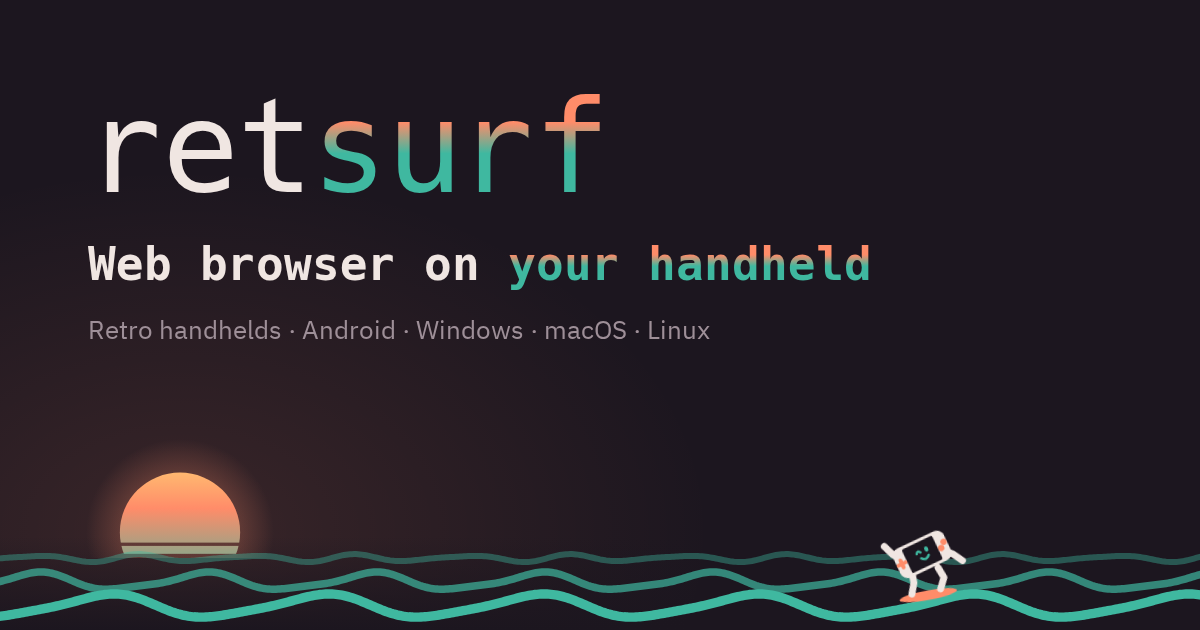
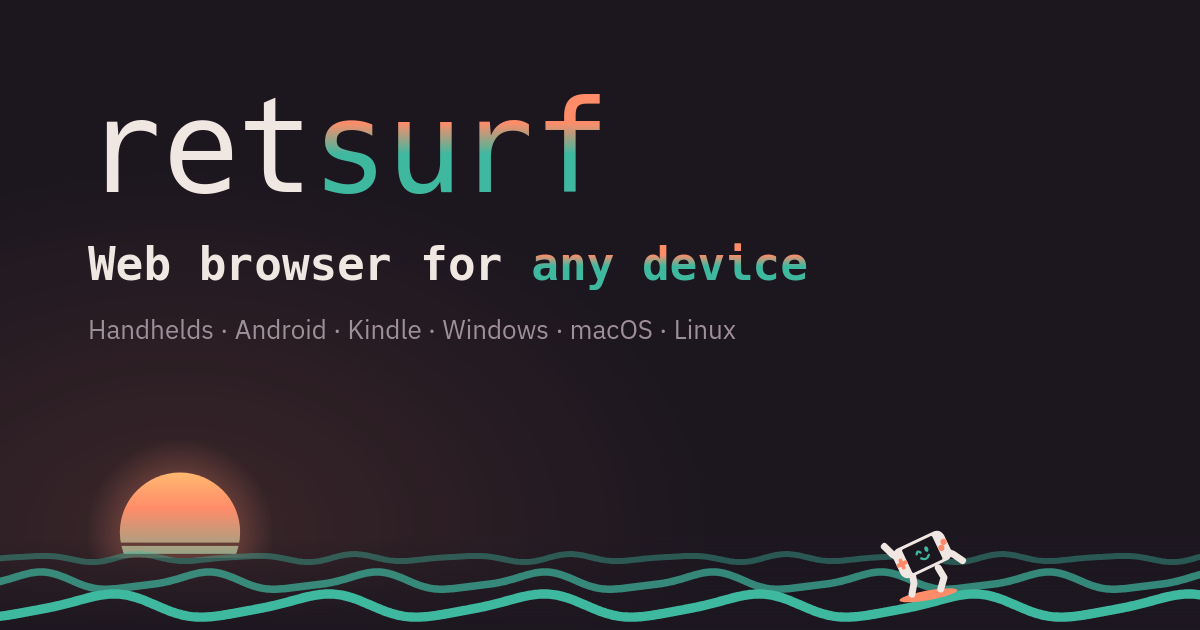
feat(site): device-neutral copy, Kindle install row

diff --git a/index.html b/index.html
@@ -3,17 +3,17 @@
 <head>
   <meta charset="utf-8">
   <meta name="viewport" content="width=device-width, initial-scale=1">
-  <title>retsurf - web browser on your handheld</title>
-  <meta name="description" content="retsurf turns sites into apps and games on your handheld: a web browser built on Servo for gamepad and keyboard. It runs on retro handhelds (PortMaster, OnionOS, Allium, spruceOS, CrossMix-OS, NextUI, NX Redux), Android, Linux, Windows and macOS.">
+  <title>retsurf - web browser for any device</title>
+  <meta name="description" content="retsurf is a web browser built on Servo that opens sites as apps and games and runs from a gamepad, a keyboard or touch. It works on retro handhelds (PortMaster, OnionOS, Allium, spruceOS, CrossMix-OS, NextUI, NX Redux), Android, Kindle e-readers, Linux, Windows and macOS.">
   <meta name="author" content="Maxim Gorin">
   <meta property="og:type" content="website">
   <meta property="og:url" content="https://retsurf.app/">
-  <meta property="og:title" content="retsurf - web browser on your handheld">
-  <meta property="og:description" content="Sites as apps and games on retro handhelds, Android and desktop. A real web browser built on Servo, driven from a gamepad or a keyboard.">
+  <meta property="og:title" content="retsurf - web browser for any device">
+  <meta property="og:description" content="Sites as apps and games on handhelds, phones, e-readers and desktops. A real web browser built on Servo, driven from a gamepad, a keyboard or touch.">
   <meta property="og:image" content="https://retsurf.app/images/retsurf-og.png">
   <meta property="og:image:width" content="1200">
   <meta property="og:image:height" content="630">
-  <meta property="og:image:alt" content="retsurf: web browser on your handheld, over a sunset sea with the surfing mascot">
+  <meta property="og:image:alt" content="retsurf: web browser for any device, over a sunset sea with the surfing mascot">
   <meta name="twitter:card" content="summary_large_image">
   <meta name="theme-color" content="#1c161f">
   <link rel="icon" href="retsurf.svg" type="image/svg+xml">
@@ -38,7 +38,7 @@
       <div class="menu tabs-menu">
         <button type="button" class="menu-toggle" aria-label="Menu" aria-expanded="false" hidden><span class="tabs-icon" aria-hidden="true"></span></button>
         <nav>
-          <a href="#hardware">Handhelds</a>
+          <a href="#devices">Devices</a>
           <a href="#apps">Apps and games</a>
           <a href="#buttons">Controls</a>
           <a href="#install">Install</a>
@@ -62,8 +62,8 @@
     <section class="hero">
       <div class="wrap hero-grid">
         <div class="hero-text">
-          <h1>Web browser on <span class="accent">your handheld</span></h1>
-          <p class="lead">itch.io games, Hacker News and Wikipedia, each a tile on your start page that opens as a game, an app or a site. retsurf is a real web browser built on the <strong><a href="https://servo.org/">Servo</a> engine</strong> and driven from a gamepad or a keyboard, no mouse needed.</p>
+          <h1>Web browser for <span class="accent">any device</span></h1>
+          <p class="lead">A web browser built on the <strong><a href="https://servo.org/">Servo</a> engine</strong>, driven by a gamepad, a keyboard or touch. Sites open as apps and games from its start page.</p>
           <div class="actions">
             <a class="button primary" href="#install" data-pad="a"><kbd>A</kbd>Download</a>
             <a class="button" href="https://github.com/mxmgorin/retsurf" data-pad="y"><kbd>Y</kbd>View on GitHub</a>
@@ -74,7 +74,7 @@
             <a class="badge" href="https://github.com/mxmgorin/retsurf">stars<b data-badge="stars"></b></a>
             <a class="badge" href="https://github.com/mxmgorin/retsurf/releases">downloads<b data-badge="downloads"></b></a>
           </div>
-          <p class="platforms">Retro handhelds &middot; Android &middot; Windows &middot; macOS &middot; Linux</p>
+          <p class="platforms">Handhelds &middot; Android &middot; Kindle &middot; Windows &middot; macOS &middot; Linux</p>
           <p class="hint-bar"><span><kbd>F</kbd>link hints</span><span><kbd>Esc</kbd>cancel</span></p>
         </div>
         <img class="hero-photo" src="images/retsurf-rg35xx-sp.jpg" alt="retsurf on an Anbernic RG35XX SP, the on-screen keyboard raised under the address field" width="800" height="800">
@@ -88,9 +88,9 @@
       </div>
     </section>
 
-    <section id="hardware" class="wrap">
-      <h2>On real handhelds</h2>
-      <p class="section-lead">Runs on the firmware you already have: PortMaster, OnionOS, spruceOS, NextUI and more. From a Miyoo Mini with 128 MB of RAM and no GPU up to Android phones and desktops.</p>
+    <section id="devices" class="wrap">
+      <h2>On many devices</h2>
+      <p class="section-lead">From a Miyoo Mini with 128 MB of RAM and no GPU to Android phones, Kindle e-readers and desktops. Packages for PortMaster, OnionOS, spruceOS, NextUI and more.</p>
       <div class="devices">
         <figure>
           <img src="images/retsurf-rgb30.jpg" alt="retsurf start page on a Powkiddy RGB30" width="660" height="660" loading="lazy">
@@ -102,7 +102,7 @@
         </figure>
         <a class="more" href="https://github.com/mxmgorin/retsurf/discussions/78">
           <strong>And more</strong>
-          <span>Also tested on Anbernic RG35XX SP, Miyoo Mini Flip, Retroid Pocket Flip 2 and Unihertz Titan 2.</span>
+          <span>Also tested on Anbernic RG35XX SP, Miyoo Mini Flip, Retroid Pocket Flip 2, the Unihertz Titan 2 phone and a Kindle Paperwhite.</span>
           <span class="go">See tested devices</span>
         </a>
       </div>
@@ -166,12 +166,12 @@
     </section>
 
     <section id="buttons" class="wrap">
-      <h2>Built for buttons</h2>
+      <h2>Built for any input</h2>
       <article class="spot">
         <div class="spot-text">
-          <h3>Gamepad and keyboard navigation</h3>
+          <h3>Gamepad, keyboard and touch</h3>
           <p>A virtual cursor on the stick or D-pad, Vimium-style link hints that label every link with the buttons or keys that open it, and an on-screen keyboard as a grid or a wheel.</p>
-          <p>Every browser action can be bound to a gamepad gesture or a keyboard shortcut, in the app, with tap, hold and chord.</p>
+          <p>Every browser action can be bound to a gamepad gesture or a keyboard shortcut, in the app, with tap, hold and chord. On phones and e-readers, touch taps and scrolls the page.</p>
         </div>
         <img class="spot-media" src="images/retsurf-hints.png" alt="Link hints over a Wikipedia article, each labeled with gamepad buttons" width="640" height="480" loading="lazy">
       </article>
@@ -247,6 +247,11 @@
                 <td><a href="https://github.com/cizia64/CrossMix-OS">CrossMix-OS</a><span class="sub">TrimUI Smart Pro</span></td>
                 <td><a href="https://github.com/mxmgorin/retsurf/releases/latest/download/retsurf-crossmix.zip">retsurf-crossmix.zip</a></td>
                 <td>root of the SD card</td>
+              </tr>
+              <tr>
+                <td>Kindle<span class="sub">jailbroken, started from KUAL or KOReader</span></td>
+                <td><a href="https://github.com/mxmgorin/retsurf/releases/download/nightly/retsurf-kindle.zip">retsurf-kindle.zip</a><span class="sub">nightly build</span></td>
+                <td>root of the Kindle's USB storage</td>
               </tr>
               <tr>
                 <td>Android</td>

diff --git a/tools/og.html b/tools/og.html
@@ -20,8 +20,8 @@
   <section class="hero">
     <div class="card">
       <div class="mark">ret<span class="accent">surf</span></div>
-      <p class="line">Web browser on <span class="accent">your handheld</span></p>
-      <p class="sub">Retro handhelds &middot; Android &middot; Windows &middot; macOS &middot; Linux</p>
+      <p class="line">Web browser for <span class="accent">any device</span></p>
+      <p class="sub">Handhelds &middot; Android &middot; Kindle &middot; Windows &middot; macOS &middot; Linux</p>
     </div>
     <div class="horizon">
       <div class="sun"></div>

diff --git a/404.html b/404.html
@@ -26,7 +26,7 @@
       <div class="menu tabs-menu">
         <button type="button" class="menu-toggle" aria-label="Menu" aria-expanded="false" hidden><span class="tabs-icon" aria-hidden="true"></span></button>
         <nav>
-          <a href="/#hardware">Handhelds</a>
+          <a href="/#devices">Devices</a>
           <a href="/#apps">Apps and games</a>
           <a href="/#buttons">Controls</a>
           <a href="/#install">Install</a>

diff --git a/style.css b/style.css
@@ -75,6 +75,7 @@ section.wrap { padding-top: 64px; padding-bottom: 64px; }
 
 h1, h2, h3 { font-family: var(--display); line-height: 1.15; margin: 0 0 12px; }
 h1 { font-size: clamp(30px, 5vw, 50px); font-weight: 700; }
+h1 .accent { white-space: nowrap; }
 h2 { font-size: clamp(26px, 3.5vw, 36px); font-weight: 700; margin-bottom: 28px; }
 h3 { font-size: 22px; font-weight: 700; }
 
